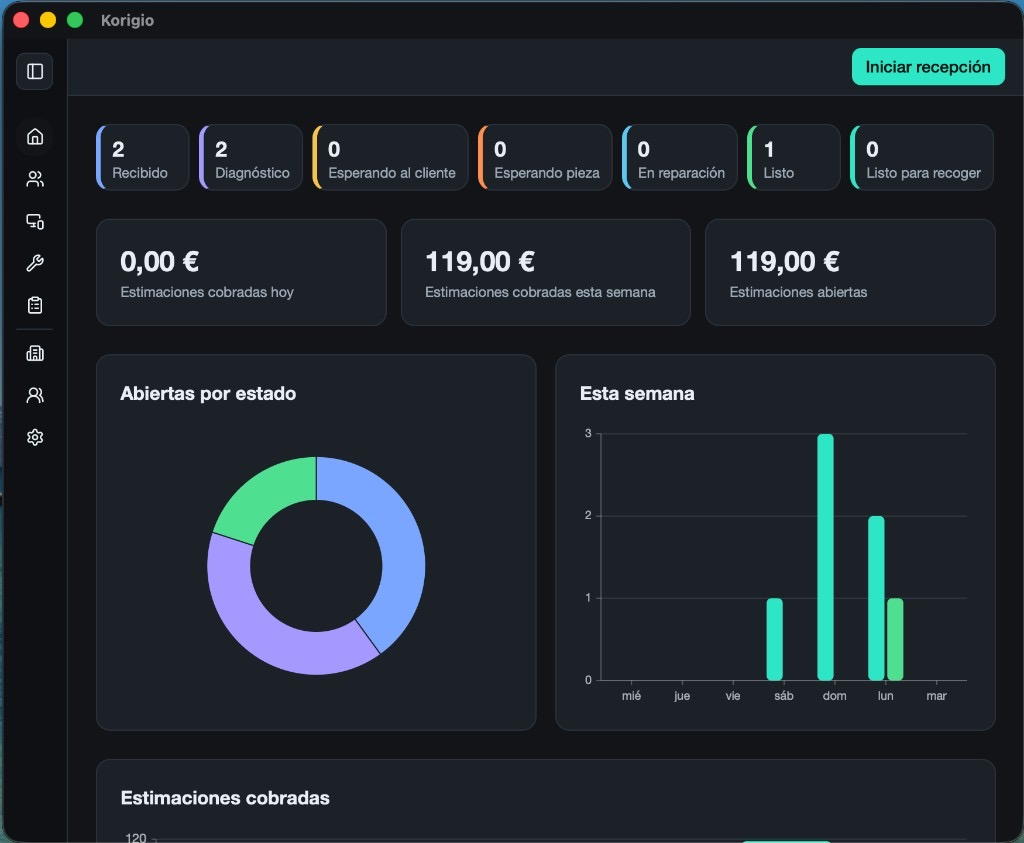
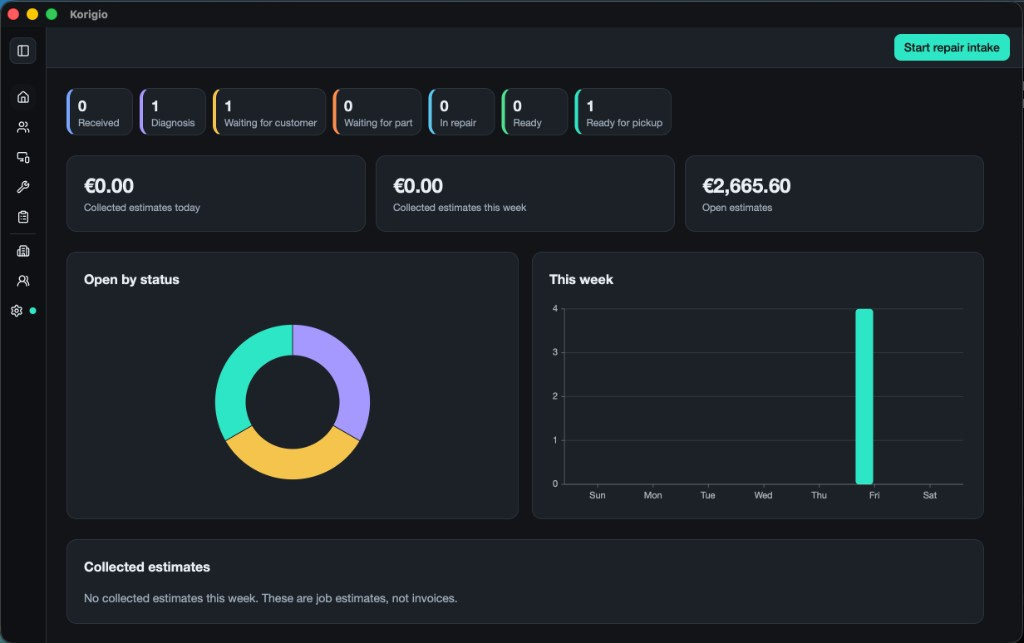
Show real product screenshots on the home page.
Replace the placeholder dashboard preview and add a gallery of intake, repair, and company views from the desktop app.

diff --git a/src/components/home/ProductShots.tsx b/src/components/home/ProductShots.tsx
@@ -1,0 +1,51 @@
+import Image from "next/image";
+import companies from "@/assets/preview/companies-dark.jpg";
+import company from "@/assets/preview/company-dark.jpg";
+import intake from "@/assets/preview/intake-dark.jpg";
+import repair from "@/assets/preview/repair-dark.jpg";
+import type { Dictionary } from "@/lib/i18n";
+
+type Props = {
+  dict: Dictionary;
+};
+
+const shots = [
+  { src: intake, key: "intake" as const },
+  { src: repair, key: "repair" as const },
+  { src: company, key: "company" as const },
+  { src: companies, key: "companies" as const },
+];
+
+export function ProductShots({ dict }: Props) {
+  return (
+    <section className="border-t border-border">
+      <div className="mx-auto max-w-6xl px-5 py-20">
+        <p className="text-xs uppercase tracking-[0.22em] text-subtle">
+          {dict.preview.galleryKicker}
+        </p>
+        <h2 className="mt-3 max-w-2xl text-3xl font-medium tracking-tight text-foreground sm:text-4xl">
+          {dict.preview.galleryTitle}
+        </h2>
+        <p className="mt-4 max-w-2xl text-muted">{dict.preview.gallerySubtitle}</p>
+        <div className="mt-10 grid gap-5 md:grid-cols-2">
+          {shots.map((shot) => (
+            <figure key={shot.key} className="m-0">
+              <div className="relative aspect-[1024/644] overflow-hidden rounded-[14px] border border-border bg-elevated">
+                <Image
+                  src={shot.src}
+                  alt={dict.preview.shots[shot.key]}
+                  fill
+                  sizes="(max-width: 768px) 100vw, 560px"
+                  className="object-contain object-top"
+                />
+              </div>
+              <figcaption className="mt-3 text-sm text-muted">
+                {dict.preview.shots[shot.key]}
+              </figcaption>
+            </figure>
+          ))}
+        </div>
+      </div>
+    </section>
+  );
+}

diff --git a/src/lib/i18n/es.ts b/src/lib/i18n/es.ts
@@ -297,6 +297,16 @@ export const es = {
   },
   preview: {
     alt: "Panel de taller de Korigio",
+    galleryKicker: "Producto",
+    galleryTitle: "Hecho para el mostrador de reparaciones.",
+    gallerySubtitle:
+      "Recepción, progreso de reparación, perfiles de empresa y el panel del taller — software de escritorio de código abierto que ejecutas tú.",
+    shots: {
+      intake: "Recepción — entrada rápida de cliente con teclado",
+      repair: "Vista de reparación — estado, progreso y siguientes pasos",
+      company: "Perfil de empresa — para recibos de entrada y trabajos B2B",
+      companies: "Empresas — busca y gestiona cuentas del taller",
+    },
   },
   notFound: {
     title: "Página no encontrada",

diff --git a/src/lib/i18n/de.ts b/src/lib/i18n/de.ts
@@ -297,6 +297,16 @@ export const de = {
   },
   preview: {
     alt: "Korigio-Werkstattdashboard",
+    galleryKicker: "Produkt",
+    galleryTitle: "Für den Reparatur-Tresen gebaut.",
+    gallerySubtitle:
+      "Annahme, Reparaturfortschritt, Firmenprofile und das Werkstatt-Dashboard — Open-Source-Desktop-Software, die Sie selbst betreiben.",
+    shots: {
+      intake: "Reparaturannahme — schnelle Kundeneingabe per Tastatur",
+      repair: "Reparaturübersicht — Status, Fortschritt und nächste Schritte",
+      company: "Firmenprofil — für Annahmescheine und B2B-Aufträge",
+      companies: "Firmen — Werkstattkonten suchen und verwalten",
+    },
   },
   notFound: {
     title: "Seite nicht gefunden",

diff --git a/src/lib/i18n/en.ts b/src/lib/i18n/en.ts
@@ -297,6 +297,16 @@ export const en = {
   },
   preview: {
     alt: "Korigio workshop dashboard",
+    galleryKicker: "Product",
+    galleryTitle: "Built for the repair counter.",
+    gallerySubtitle:
+      "Intake, repair progress, company profiles, and the workshop dashboard — open source desktop software you run yourself.",
+    shots: {
+      intake: "Repair intake — keyboard-first customer entry",
+      repair: "Repair overview — status, progress, and next steps",
+      company: "Company profile — for intake receipts and B2B jobs",
+      companies: "Companies — search and manage workshop accounts",
+    },
   },
   notFound: {
     title: "Page not found",

diff --git a/src/app/page.tsx b/src/app/page.tsx
@@ -1,5 +1,6 @@
 import { AppPreview } from "@/components/home/AppPreview";
 import { HomeOfflineCta, HomePlatformCtas } from "@/components/home/HomePlatformCtas";
+import { ProductShots } from "@/components/home/ProductShots";
 import { getDictionary, getLocale } from "@/lib/i18n";
 import { getVisitorDesktopOs } from "@/lib/visitor-os";
 
@@ -38,6 +39,8 @@ export default async function HomePage() {
           ))}
         </dl>
       </section>
+
+      <ProductShots dict={dict} />
 
       <section className="border-t border-border">
         <div className="mx-auto max-w-6xl px-5 py-20">

diff --git a/src/components/home/AppPreview.tsx b/src/components/home/AppPreview.tsx
@@ -10,7 +10,7 @@ type Props = {
 export function AppPreview({ dict }: Props) {
   return (
     <figure className="m-0 w-full min-w-0">
-      <div className="app-preview glow-ring relative aspect-[1024/840] w-full overflow-hidden rounded-[14px] border border-border">
+      <div className="app-preview glow-ring relative aspect-[1024/643] w-full overflow-hidden rounded-[14px] border border-border bg-elevated">
         <Image
           src={dashboardLight}
           alt=""
